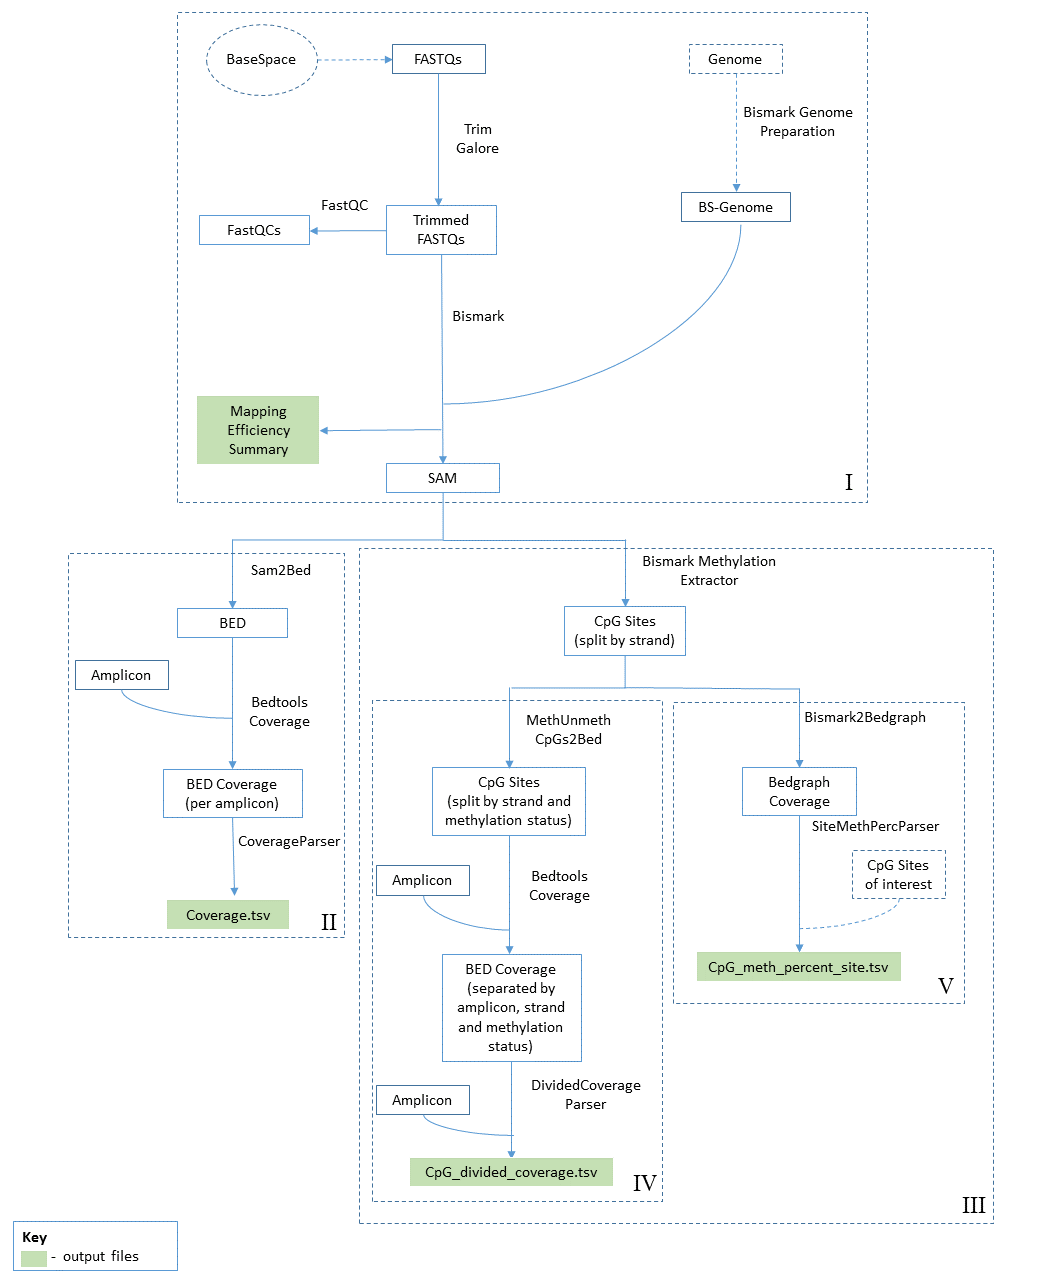
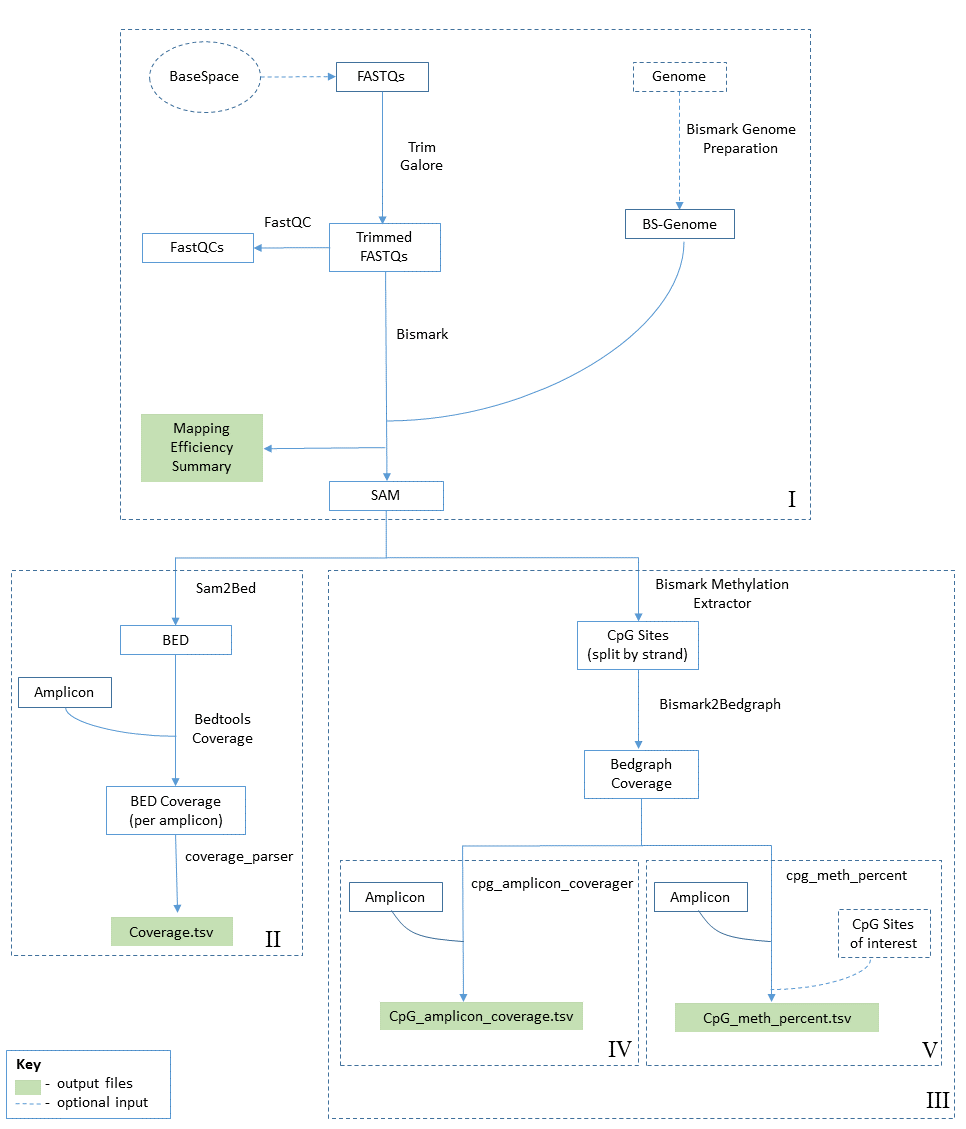
Documentation changes to outline the pipeline and file changes. Also increase in clarity.

diff --git a/README.md b/README.md
@@ -1,4 +1,4 @@
-# MethyCoverageParser
+# MethyCoverageParser v0.02
 Produces coverage and methylation percentage data from FASTQ files derived from bisulfite converted targeted Illumina sequencing.
 
 Pipeline created by Danny Laurent and Duncan Sproul. <br />
@@ -9,10 +9,10 @@ CLI interface, documentation, organisation and wrapper bash script created by Da
 ## Description
 ### Summary
 A command line tool which uses [Bismark](https://www.bioinformatics.babraham.ac.uk/projects/bismark/) and a selection of parsing scripts to manipulate FASTQ files derived from bisulfite-converted targeted-sequencing to produce four files: <br />
-- mapping_efficiency_summary.txt - percentage of sequences with a unique best alignment for each sample <br />
-- Coverage.tsv - details coverage across given amplicon ranges for every parsed FASTQ file <br />
-- CpG_divided_coverage.tsv - The total methylated and unmethylated coverage for all CpG sites in every amplicon <br />
-- CpG_meth_percent_site.tsv - details CpG methylation percentages for all CpG sites within the amplicons of all parsed FASTQ files. The CpG sites written to file can be filtered using the --cpg argument.
+- mapping_efficiency_summary.txt - percentage of sequences which uniquely align to the BS-genome <br />
+- Coverage.tsv - details amplicon coverage for each amplicon <br />
+- CpG_divided_coverage.tsv - the total methylated and unmethylated coverage for all CpG sites covering each sequenced amplicon <br />
+- CpG_meth_percent_site.tsv - details CpG methylation percentages for all sequenced CpG sites. <br />
 
 Reading the [Bismark documentation](https://www.bioinformatics.babraham.ac.uk/projects/bismark/Bismark_User_Guide.pdf) is **highly recommended** prior to using this script.
 
@@ -22,23 +22,23 @@ Reading the [Bismark documentation](https://www.bioinformatics.babraham.ac.uk/pr
 ![](docs/MethyCoverageParser_Image.png?raw=true)
 
 #### I - Generating SAM files
-*optional*: The FASTQ files can be downloaded directly from BaseSpace using```--basespace``` option and/or the reference genome can be       bisulfite converted using  ```--bs-convert``` flag.
+*optional*: The FASTQ files can be downloaded directly from BaseSpace using```--basespace``` option and/or the reference genome can be bisulfite converted using  ```--bs-convert``` flag.
 
-The FASTQ files contained within the directory detailed in the ```--fastq``` option have the Fluidigm sequencing primers cut off  to produce trimmed FASTQ files. The subsequently produce FastQC files should be inspected to ensure they are of adequate quality    for alignment and the following [document](https://www.epigenesys.eu/images/stories/protocols/pdf/20120720103700_p57.pdf) can be used  to help determine this.
+The FASTQ files contained within the directory detailed in the ```--fastq``` option have the sequencing primers cut off  to produce trimmed FASTQ files. The subsequently produce FastQC files should be inspected to ensure they are of adequate quality    for alignment and the following [document](https://www.epigenesys.eu/images/stories/protocols/pdf/20120720103700_p57.pdf) can be used  to help determine this.
 
-Bismark aligns the trimmed FASTQ files to the bisulfite-converted genome stored in the directory detiled in the ```--ref``` option to produce [SAM files](https://samtools.github.io/hts-specs/SAMv1.pdf). A *mapping_efficiency_summary.txt* file is also       produced and details the percentage of reads from a FASTQ file pair which uniquely align to the genome.
+Bismark aligns the trimmed FASTQ files to the bisulfite-converted genome stored in the directory detailed within the ```--ref``` option to produce [SAM files](https://samtools.github.io/hts-specs/SAMv1.pdf). A *mapping_efficiency_summary.txt* file is also       produced and details the percentage of reads from a FASTQ file pair which uniquely align to the genome.
 
 #### II - Coverage
-The Sam2Bed script iterates through the SAM files and outputs the positions of paired reads which map in proper pairs and outputs them into BED files. [Bedtools Coverage](http://bedtools.readthedocs.io/en/latest/content/tools/coverage.html) subsequently determines the number of times a position range described within the BED file overlaps with the amplicons described within the amplicon bed file (parsed to the ```--amplicon``` option) to produce BED Coverage files. The CoverageParser script takes the information from all BED Coverage files and reformats them into a data frame like format exported as *Coverage.tsv*.
+The Sam2Bed script iterates through the SAM files and outputs the positions of paired reads which map in proper pairs and outputs them into BED files. [Bedtools Coverage](http://bedtools.readthedocs.io/en/latest/content/tools/coverage.html) subsequently determines the number of times a position range described within the BED file overlaps with the amplicons described within the amplicon bed file (parsed to the ```--amplicon``` option) to produce BED Coverage files. The information from all BED Coverage files are grouped, reformatted and exported as *Coverage.tsv*.
 
 #### III - CpG Sites
-Bismark Methylation Extractor will extract all CpG context cytosines from the SAM files and export their methylation status into two seperate CpG-site files; one for the positive strand (OT) and another for the negative strand (OB).
+Bismark Methylation Extractor will extract all CpG context cytosines from the SAM files and export their methylation status into two seperate CpG-site files; one for the positive strand (OT) and another for the negative strand (OB). The CpG-Site files are paired and parsed into Bismark2Bedgraph to produce Bedgraph Coverage files detailing; methylation percentage, methylated count and unmethylated count for each CpG site. 
 
 #### IV - CpG Sites Coverage 
-Both the OT and OB CpG-site files are split by methylation status, producing CpG-site files for; OT-methylated positions, OT-unmthylated positions, OB-methylated positions & OB-unmethylated positions. Bedtools Coverage then creates BED Coverage files for each of the four split CpG-site files using the aforementioned amplicon bed file. Finally, DivededCoverageParser extracts all the BED Coverage data and reformats it into a dataframe like format exported as *CpG_divided_coverage.tsv*. This file details the methylated and unmethylated CpG coverage across each amplicon; the coverage of each methylated/unmethylated CpG site that lies within an amplicon is added together. 
+The CpG sites detailed in the bedgraph coverage files are grouped together by amplicon and their methylated count and unmethylated count are summarised. The resulting data is then reformatted to show total methylated and unmethylated CpG coverage across all amplicons along with which strand the amplicon was designed to and exported as *CpG_amplicon_coverage.tsv*.  
 
 #### V - CpG Methylation Percentage
-The CpG-Site files generated in step III are paired and parsed into Bismark2Bedgraph to produce Bedgraph Coverage files detailing; cytosine coverage, non-cytosine coverage and the percent methylated at said sites. SiteMethPercParser extracts all the methylation percentage data from the Bedgraph Coverage files, filters for sites with a minimum of 1000 coverage and reformats them into a dataframe like format exported as *CpG_meth_percent_site.tsv*.
+All the methylation percentage data from each CpG site are extracted from the Bedgraph Coverage files, filtered for sites with a minimum of 1000 coverage, annotated with the strand the CpG site derives from and exported as *CpG_meth_percent.tsv*.
 
 *optional*: The methylation percentage data can be further filtered for sites of interest before being exported. Simply parse a file detailing said sites of interest with the ```--cpg``` option.
 
@@ -57,9 +57,7 @@ cd MethyCoverageParser/
 ## Requirements
 The script has only been tested with bash version 4.2.46. The below programs must be in your PATH before running the script (confirmed to function correctly with the referenced versions):
 ```
-python2
-python3 
-perl5 
+python2.7
 FastQC 
 cutadapt v1.13
 TrimGalore v0.4.1
@@ -75,7 +73,7 @@ bedtools v2.26.0
 ```--fastq``` The directory containing FASTQ files or sub-directories in containing FASTQ files. <br />
 ```--dir``` The directory in which the data processing and generation will take place. <br />
 ```--ref``` The directory containing the genome FASTA file. <br />
-```--amplicon``` The required amplicon BED file used to generate coverage file. This is expected to have a fourth column detailing whether the amplicon was designed to the original top strand (OT) or original bottom strand (OB). If this is not present then a ```CpG_divided_coverage.tsv``` file cannot be created. Formating of amplicon BED file should be as below:
+```--amplicon``` An amplicon BED file describing the genomic ranges covered in the amplicon-seq libraries. This is expected to have a fourth column detailing whether the amplicon was designed to the original top strand (OT) or original bottom strand (OB). Formating of amplicon BED file should be as below:
 ```
 chr4    657827    657996    OB 
 chr7    987654    987901    OT 
@@ -83,16 +81,16 @@ chr7    987654    987901    OT
 
 ### Optional
 ```--basespace``` BaseSpace project name to download the FASTQ files from. See the Downloading FASTQ Files section below for further information in utilising this feature. <br />
-```--cpg``` The CpG site file to filter specific positions for generating ```CpG_meth_percent_site.tsv```. This file should contain a probe name in the first field and strand orientation in the last field with a header present in the first row. If the file does not fulfill these criteria then the ```CpG_meth_percent_site.tsv``` file cannot be generated. Formatting of the CpG site file should be as below: 
+```--cpg``` The CpG site file to filter specific positions for generating ```CpG_meth_percent_site.tsv```. This file should contain a probe name in the first field and strand orientation in the last field with a header present in the first row. Formatting of the CpG site file should be as below: 
 ```
 probe    chrom    pos    strand
 GB788    chr3    73837    -
 GB987    chr9    98654    +
 ```
-```--bs-convert``` Bisulfite convert the genome FASTA file. This only has to be performed once. <br />
+```--bs-convert``` Bisulfite convert the genome FASTA file. This only needs to be performed once. <br />
 ```--fluidigm``` Trim the CS1rc and CS2rc Fluidigm sequencing primers, oppossed to Illuminas, from your FASTQ files. <br />
-```--no-sams``` do not generate SAM files. <br/>
-```--no-trim``` do not trim FASTQ files.
+```--no-sams``` Do not generate SAM files. <br/>
+```--no-trim``` Do not trim FASTQ files.
 
 
 
